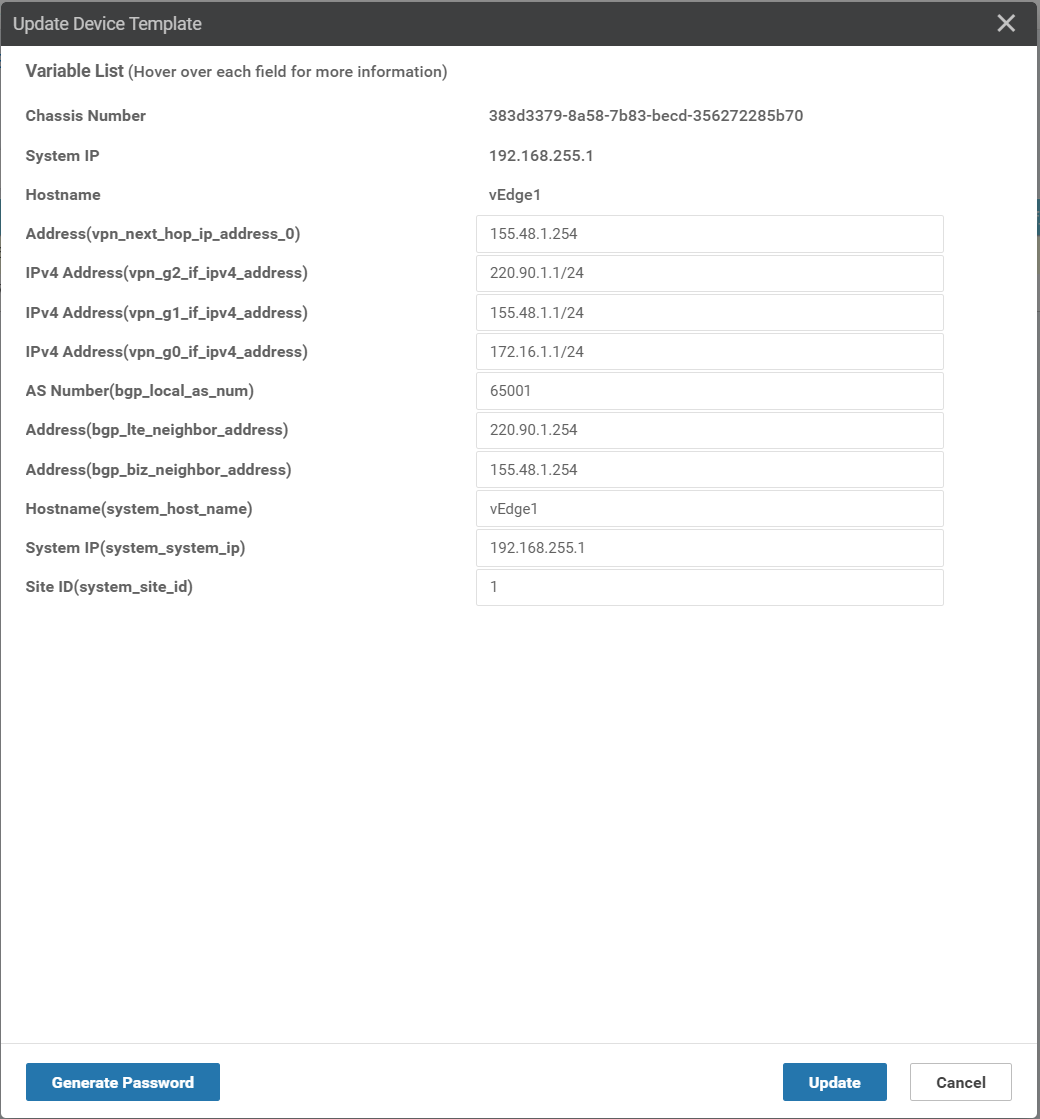
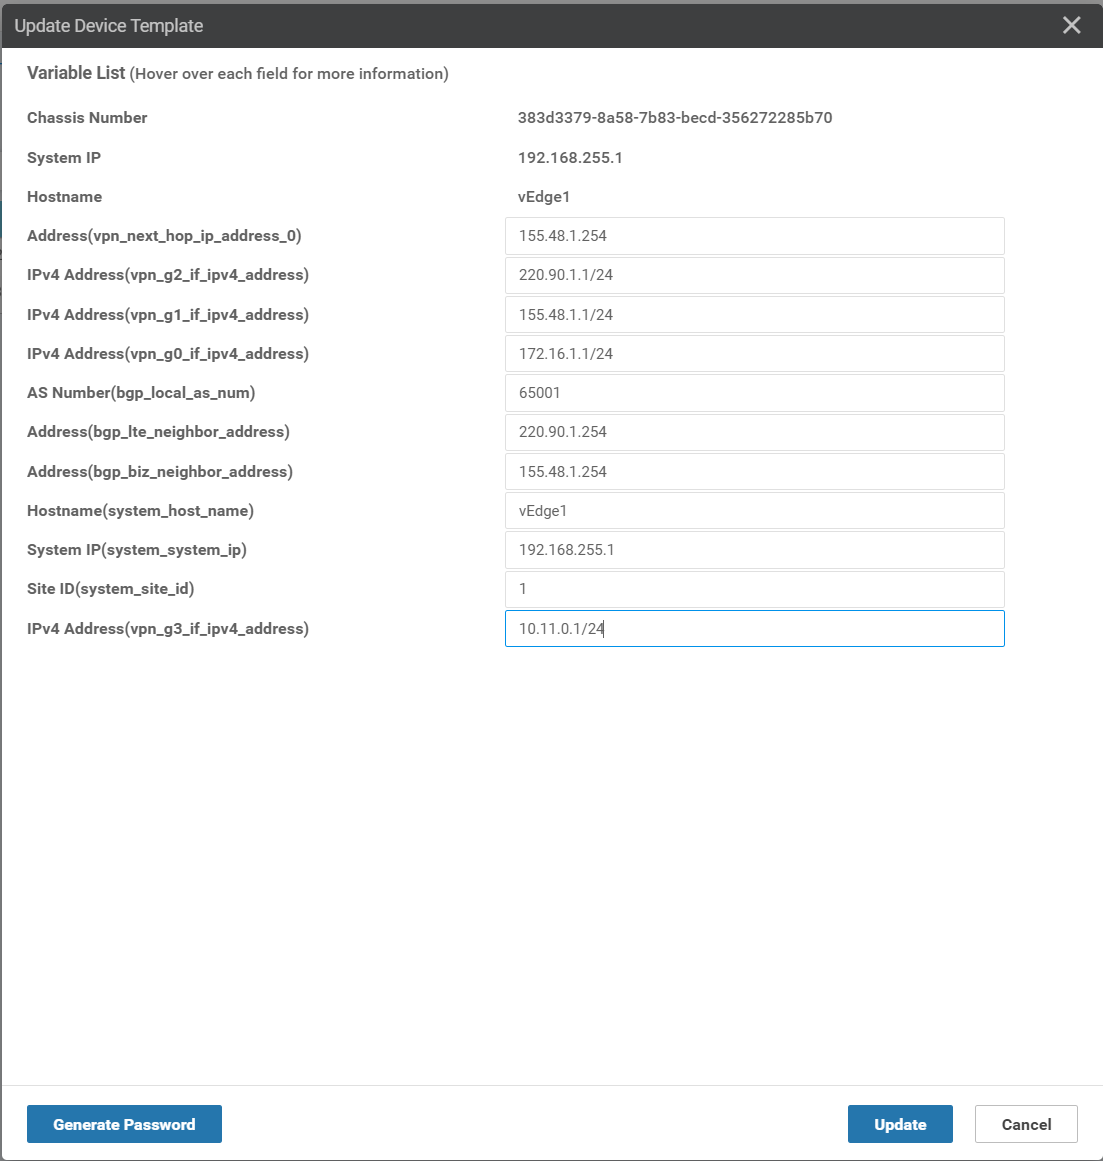
think about a blog

diff --git a/SD-WAN/implement/00_feature_template.md b/SD-WAN/implement/00_feature_template.md
@@ -1,16 +1,42 @@
-## 1. Create Feature Template
+When learning about a new technology:
+- Khawar Butt: "see it, touch it to believe it".
+- Judson's friend : "build it, break it, fix it to learn it".
+
+Then build a lab from the [SD-WAN book](https://www.ciscopress.com/store/cisco-software-defined-wide-area-networks-designing-9780136533177) to learn based on practicing with the lab.
+
+![text](images/00-topo.PNG)
+
+Our purpose is to build the device template for configuration of `vEdge1`. Let's take a close look at `vEdge1`.
+
+![text](images/00-vEdge1.PNG)
+
+What we need for vEdge1:
+- Transport VPN: VPN0, configuration for `Ge0/0`, `Ge0/1`, `Ge0/2`
+- Service VPN: VPN1, configuration for `Ge0/3`
+- Management VPN: VPN512, configuration for `eth0`
+- BGP neighbor with Internet via `Ge0/1` and BGP neighbor with LTE via 'Ge0/2'
+
+Let's start building piece-by-piece the neccessary feature templates:
+- Create system template
+- Create banner template (optional)
+- Create VPN templates: VPN0, VPN1, VPN512
+- Create VPN Interface templates: VPNINT-VPN0-G0, G1, G2; VPNINT-VPN1-G3, VPNINT-VPN512-E0
+- Create BGP template
+
+# 1. Create Feature Template
 Before starting create template, it is very important to plan the template name properly. We need to come up with
- a meaningful way to name the template that is suitable for the intent use of the template.
-- Naming convention: 
+ a meaningful way to name the template that is suitable for the intent use of the template. For example, let's us
+ consider the following naming convention: 
   - System template for vEdge Cloud at a Branch: BR-VE-SYSTEM
   - VPN template for vEdge Cloud at a Branch: BR-VE-VPN-VPN0
 
 When we create a template, for each parameter we have three types of setting as follows:
-- Global: Apply to all devices using this template.
+- Global: Apply to all devices using this template, will not be asked for this parameter when the template is attached to a device.
 - Device specific: when apply template, we will need to specify this parameter.
 - Default:
 
-### 1.1. Create System Template
+
+## 1.1. Create System Template
 
 - Template Name: BR-VE-SYSTEM
 - Site ID: Device Specific
@@ -22,7 +48,7 @@ When we create a template, for each parameter we have three types of setting as 
 We create the first `BR-VE-SYSTEM` template as in the following figure.
 ![text](images/BR-VE-SYSTEM.PNG)
 
-### 1.2. Create VE-banner
+### 1.2. Create Banner Template
 - Template name: VE-banner
 - Description: VE-banner
 - Login banner: Global "This is vEdge Cloud Login banner"
@@ -30,8 +56,8 @@ We create the first `BR-VE-SYSTEM` template as in the following figure.
 
 ![text](images/VE-banner.PNG)
 
-### 1.2. Create VPN Template
-#### Create VPN0 Template
+## 1.3. Create VPN Templates
+### Create VPN0 Template
 
 - Template Name: BR-VE-VPN-VPN0
 - Description: BR-VE-VPN-VPN0
@@ -42,28 +68,41 @@ We create the first `BR-VE-SYSTEM` template as in the following figure.
 ![text](images/BR-VE-VPN-VPN0-basic.PNG)
 
 - IPv4 Route Configuration:
-- Prefix: Global: Default
-- Next Hop: Device Specific
-  - Key Value: vpn0_g0_next_hop_ip_address_0
-
-#### Create VPN512 Template
-Copy from VPN0, change the following fields:
-- VPN: Global: 512
-- Name: Global: Management VPN
-- Delete Ipv4 route
+  - Prefix: Global: Default
+  - Next Hop: Device Specific
+    - Key Value: vpn0_next_hop_ip_address_0
 
 ![text](images/BR-VE-VPN-VPN0-IPv4.PNG)
 
-### 1.3. Create VPN Interface Ethernet 
-#### Create BR-VE-VPNINT-VPN0-G0
+
+### Create VPN1 Template
+
+- Template Name: BR-VE-VPN-VPN1
+- Description: BR-VE-VPN-VPN1
+- Basic configuration: 
+  - VPN: Global: 1
+  - Name: Global: Service VPN
+
+
+### Create VPN512 Template
+- Template Name: BR-VE-VPN-VPN512
+- Description: BR-VE-VPN-VPN512
+- Basic configuration: 
+  - VPN: Global: 512
+  - Name: Global: Management VPN
+
+
+## 1.4. Create VPN Interface Ethernet Templates
+### Create BR-VE-VPNINT-VPN0-G0
 - Template Name: BR-VE-VPNINT-VPN0-G0
 - Description: BR-VE-VPNINT-VPN0-G0
 - Basic Configuration
   - Shutdown: Global: No
   - Interface Name: Global: ge0/0
   - Description: Global: Transport MPLS
-- IPv4 Address: Static: Device Specific
-  - Key Value: vpn0_g0_if_ipv4_address
+- IPv4 Address: 
+  - Static: Device Specific
+  - Key Value: vpn_g0_if_ipv4_address
 
 ![text](images/BR-VE-VPNINT-VPN0-G0-basic.PNG)
 
@@ -79,27 +118,38 @@ Copy from VPN0, change the following fields:
 
 ![text](images/BR-VE-VPNINT-VPN0-G0-Tunnel-allow-service.PNG)
 
-#### Create BR-VE-VPNINT-VPN0-G1
+### Create BR-VE-VPNINT-VPN0-G1
 Copy from BR-VE-VPNINT-VPN0-G0, only change the following fields:
 - Interface name: 'ge0/1'
 - Description: `Transport Internet`
 - Select color as `biz-internet`
 
-#### Create BR-VE-VPNINT-VPN0-G2
+### Create BR-VE-VPNINT-VPN0-G2
 Copy from BR-VE-VPNINT-VPN0-G0, only change the following fields:
 - Interface name: 'ge0/2'
 - Description: `Transport LTE`
 - Select color as `lte`
 
-#### Create BR-VE-VPNINT-VPN512-ETH0
+### Create BR-VE-VPNINT-VPN1-G3
+- Template Name: BR-VE-VPNINT-VPN1-G3
+- Description: BR-VE-VPNINT-VPN1-G3
+- Basic Configuration
+  - Shutdown: Global: No
+  - Interface Name: Global: ge0/3
+  - Description: Global: Service VPN1 Interface
+- IPv4 Address: 
+  - Static: Device Specific
+  - Key Value: vpn_g3_if_ipv4_address
+
+### Create BR-VE-VPNINT-VPN512-ETH0
 - Template name: BR-VE-VPNINT-VPN512-ETH0
 - Description: BR-VE-VPNINT-VPN512-ETH0
 - Interface name: Global eth0
 - IPv4: Dynamic
 
-### 1.4. Create routing feature template
+## 1.5. Create Routing Feature Templates
 
-#### Create OSPF Template
+### Create OSPF Template
 - Template name: BR-VE-OSPF-VPN0
 - Description: BR-VE-OSPF-VPN0
 - Router ID: Default
@@ -110,7 +160,7 @@ Copy from BR-VE-VPNINT-VPN0-G0, only change the following fields:
 
 ![text](images/BR-VE-OSPF-VPN0-add-interface.PNG)
 
-#### Create BGP Template
+### Create BGP Template
 **BR-VE-BGP-VPN0**
 - Template Name: BR-VE-BGP-VPN0
 - Basic Configuration
@@ -130,8 +180,8 @@ Copy from BR-VE-VPNINT-VPN0-G0, only change the following fields:
   - Address Family: Global: On
   - Address Family: Global: IPv4-Unicast
 
-## 2. Create Device Template
-### 2.1. BR-VE-DEV-TEMP
+# 2. Create Device Template
+## 2.1. BR-VE-DEV-TEMP
 
 - Template Name: BR-VE-DEV-TEMP
 - Description: BR-VE-DEV-TEMP
@@ -157,9 +207,9 @@ Copy from BR-VE-VPNINT-VPN0-G0, only change the following fields:
 - Additional Templates:
   - Banner: VE-Banner
 
-### 2.2. Attach device template to WAN Edges
+## 2.2. Attach device template to WAN Edges
 
-#### Attach BR-VE-DEV-TEMP to vEdge1
+### Attach BR-VE-DEV-TEMP to vEdge1
 - Use the addressing scheme in the topology to fill in the variables when apply the device template.
 
 - Attach vEdge1
@@ -208,4 +258,37 @@ NEIGHBOR         AS    RCVD      SENT      Q      UPTIME           RCVD    VALID
 ---------------------------------------------------------------------------------------------------------
 155.48.2.254     155   11        10        0      0:00:06:52       25      25      18         established
 220.90.2.254     300   11        12        0      0:00:06:42       25      25      7          established
+```
+
+- Check the OMP routes
+
+```bash
+vEdge1# sh omp routes 10.12.0.0/24
+
+---------------------------------------------------
+omp route entries for vpn 1 route 10.12.0.0/24
+---------------------------------------------------
+            RECEIVED FROM:                   
+peer            192.168.255.112
+path-id         1
+label           1003
+status          C,I,R
+loss-reason     not set
+lost-to-peer    not set
+lost-to-path-id not set
+    Attributes:
+     originator       192.168.255.2
+     type             installed
+     tloc             192.168.255.2, biz-internet, ipsec
+     ultimate-tloc    not set
+     domain-id        not set
+     overlay-id        1
+     site-id          2
+     preference       not set
+     tag              not set
+     origin-proto     connected
+     origin-metric    0
+     as-path          not set
+     community        not set
+     unknown-attr-len not set
 ```

diff --git a/SD-WAN/Chapter-3.md b/SD-WAN/Chapter-3.md
@@ -1,4 +1,4 @@
-## Control Plane Operations
+# Control Plane Operations
 
 - vSmart is responsible for control plane functionality and facilitates Overlay Management Protocol (OMP) for building
 the control plane.
@@ -19,7 +19,7 @@ Layer Security (TLS).
     | Core 7 	| 13046    	|
   - Some common protocols can be used inside the tunnel are OMP, SNMP, and Netconf.
 
-### Overlay Management Protocol
+## Overlay Management Protocol
 OMP is used to facilitates building the control plane and provides the following services:
 - Facilitates network communication, including data plane connectivity among sites, service chaining, and multi-VPN
 topology information.
@@ -30,5 +30,78 @@ topology information.
 OMP is enabled by default. OMP can interacts with all routing protocols including static routes, OSPF, BGP, EIGRP.
 OMP operates very similarly to a BGP route reflector in an iBGP domain (Peering only between WAN Edges and vSmart).
 
-OMP supports graceful restart. When the connection to vSmart fails, WAN Edge routers continue to use the cached routing
-information 
+OMP supports graceful restart. 
+- When the connection to vSmart fails, WAN Edge routers continue to use the cached routing information with a default timer of 12 hours.
+- This timer can be set between 1 second and 7 days.
+- Recommend to set IPsec rekey timer to be twice the gracefull restart timer.
+
+OMP advertises three types or routes: OMP routes, TLOC routes, service routes.
+
+### OMP routes
+
+OMP can advertise connected, static routes, and redistributed routes from OSPF, EIGRP, BGP to the vSmart controllers.
+Along with reachability information, the following attributes are also adveritsed:
+- TLOC: is the combination of
+  - System IP address: used to identify the WAN edge that originally advertised the route.
+  - Color: used to mark a WAN transport connection.
+  - Encapsulation Type: GRE or IPsec.
+- Origin: source of the route, with origin-proto and origin-metric, is used in best-path selection.
+- Originator: identifies where the route was originally learned from, the system IP of the advertiser.
+- Preference: OMP preference, can be modified to influence the best-path selection, a higher perference is preffered.
+- Service: Cisco SD-WAN supports service insertion, firewall.
+- Site ID: similar to BGP ASN
+- Tag: optional, transitie attribute, redistributing to or from OMP does not carry the tag.
+- VPN: indicates what VPN/VRF this route was advertised from
+
+An example is as follows:
+```bash
+vEdge1# sh omp routes 10.12.0.0/24
+
+---------------------------------------------------
+omp route entries for vpn 1 route 10.12.0.0/24
+---------------------------------------------------
+            RECEIVED FROM:                   
+peer            192.168.255.112
+path-id         1
+label           1003
+status          C,I,R
+loss-reason     not set
+lost-to-peer    not set
+lost-to-path-id not set
+    Attributes:
+     originator       192.168.255.2
+     type             installed
+     tloc             192.168.255.2, biz-internet, ipsec
+     ultimate-tloc    not set
+     domain-id        not set
+     overlay-id        1
+     site-id          2
+     preference       not set
+     tag              not set
+     origin-proto     connected
+     origin-metric    0
+     as-path          not set
+     community        not set
+     unknown-attr-len not set
+```
+
+**Note that**: 
+- `C, I, R` stands for "chosen, installed, resolved".
+- OMP uses an administrative distance of 250 on Viptela OS routes, 251 on XE SD-WAN routes.
+
+### TLOC routes
+
+TLOC (Transport Location Identifier) routes identify the physical location of this device on that transport. TLOC is 
+routable to the underlay and is the endpoint of the data plane tunnel.
+
+TLOC = system IP + color + encapsulation type.
+
+There are 22 predefined colors.
+
+A TLOC route advertises the following information:
+- TLOC private address: private IP address derived from the physical interface of the WAN Edge.
+- TLOC public address: contains the publicly routable IP address assigned to the WAN Edge. If TLOC private and public
+are identical, then the device is not be behind a NAT.
+- Color: mark the WAN transport connection
+- Encapsulation type: GRE or IPsec
+- 
